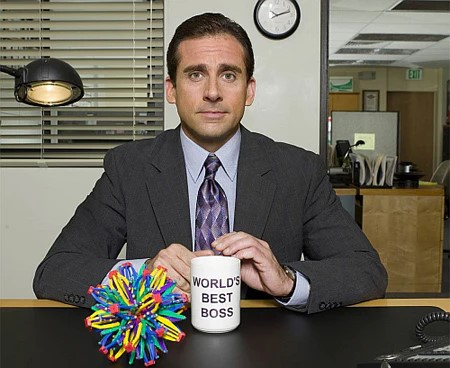
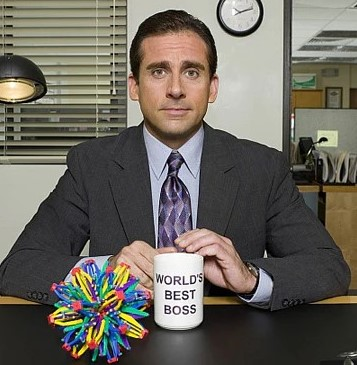
Doplněn zbytek obsahu, přidány fotky do sekcí

diff --git a/index.html b/index.html
@@ -27,6 +27,9 @@
 
     <!-- Section Praxe -->
     <h2>Praxe</h2>
+
+    <img src="podklady/fotky/bestboss.jpg" alt="Michael Scott World's best boss">
+
         <h5>03/2019 - 12/2022 Ředitelka pobočky</h5>
             <p>
                 <em> Komerční banka, a.s. </em><br>
@@ -68,12 +71,30 @@
 
     <!-- Section Znalosti a dovednosti -->
     <h2>Znalosti a dovednosti</h2>
+
+    <img src="podklady/fotky/underpressure.jpg" alt="Can you perform under pressure">
+
         <h4>Jazyky</h4>
-            <ul>
-                <li>Angličtina (výborná)</li>
-                <li>Španělština (středně pokročilá)</li>
-                <li>Němčina (základní)</li>
-            </ul>
+           <table>
+                <tr>
+                    <th>jazyk</th>
+                    <th>úroveň</th>
+                </tr>
+                <tr>
+                    <td>angličtina</td>
+                    <td>výborná</td>
+                </tr>
+                <tr>
+                    <td>španělština</td>
+                    <td>pokročilá</td>
+                </tr>
+                <tr>
+                    <td>němčina</td>
+                    <td>základní</td>
+                </tr>
+
+           </table>
+        
         <h4>Dovednosti</h4>
             <ul>
                 <li>Vedení týmu</li>
@@ -82,17 +103,40 @@
             </ul>
 
         <h4>Řidičský průkaz</h4>
-            <p>skupina B - aktivní řidič</p>
+            <ul>
+                <li>skupina B - aktivní řidič</li>
+            </ul>
 
     <!-- Section Vzdělání -->
     <h2>Vzdělání</h2>
     <h4>Nejvyšší dosažené vzdělání</h4>
+        <h5>Vysokoškolské/ univerzitní</h5>
+            <p><em>2010 - 2015 Technická univerzita v Liberci</em><br>
+            Specializace v pedagogice (Fakulta přírodovědně-humanitní a pedagogická)<br>
+            Obor anglický jazyk a španělský jazyk</p>
 
     <!-- Section Certifikáty a školení-->
     <h2>Certifikáty a školení</h2>
+        <h5>2018 Program "TALENT"</h5>
+            <p>
+                <em>Komerční banka, a.s.</em><br>
+                Série školení pro vybrané zaměstnance se zaměřením na kariérní cíle
+                (manažerské dovednosti), stáž na HR oddělení na centrále, snídaně se CEO
+                Janem Juchelkou, setkání s úspěšnými lidmi z různých oddělení banky, etc.
+            </p>
 
     <!-- Section Koníčky a záliby-->
     <h2>Koníčky a záliby</h2>
+        <ul>
+            <li>sport</li>
+            <li>cestování</li>
+            <li>zahrada</li>
+            <li>knihy</li>
+            <li>PC hry</li>
+            <li>vaření</li>
+        </ul>
+
+    <img src="podklady/fotky/hireme.jpg" alt="Geralt casting Axii and manipulating you to hire me">
 
     <!-- Footer -->
     <p>© 2023, Petra Hermanová</p>
